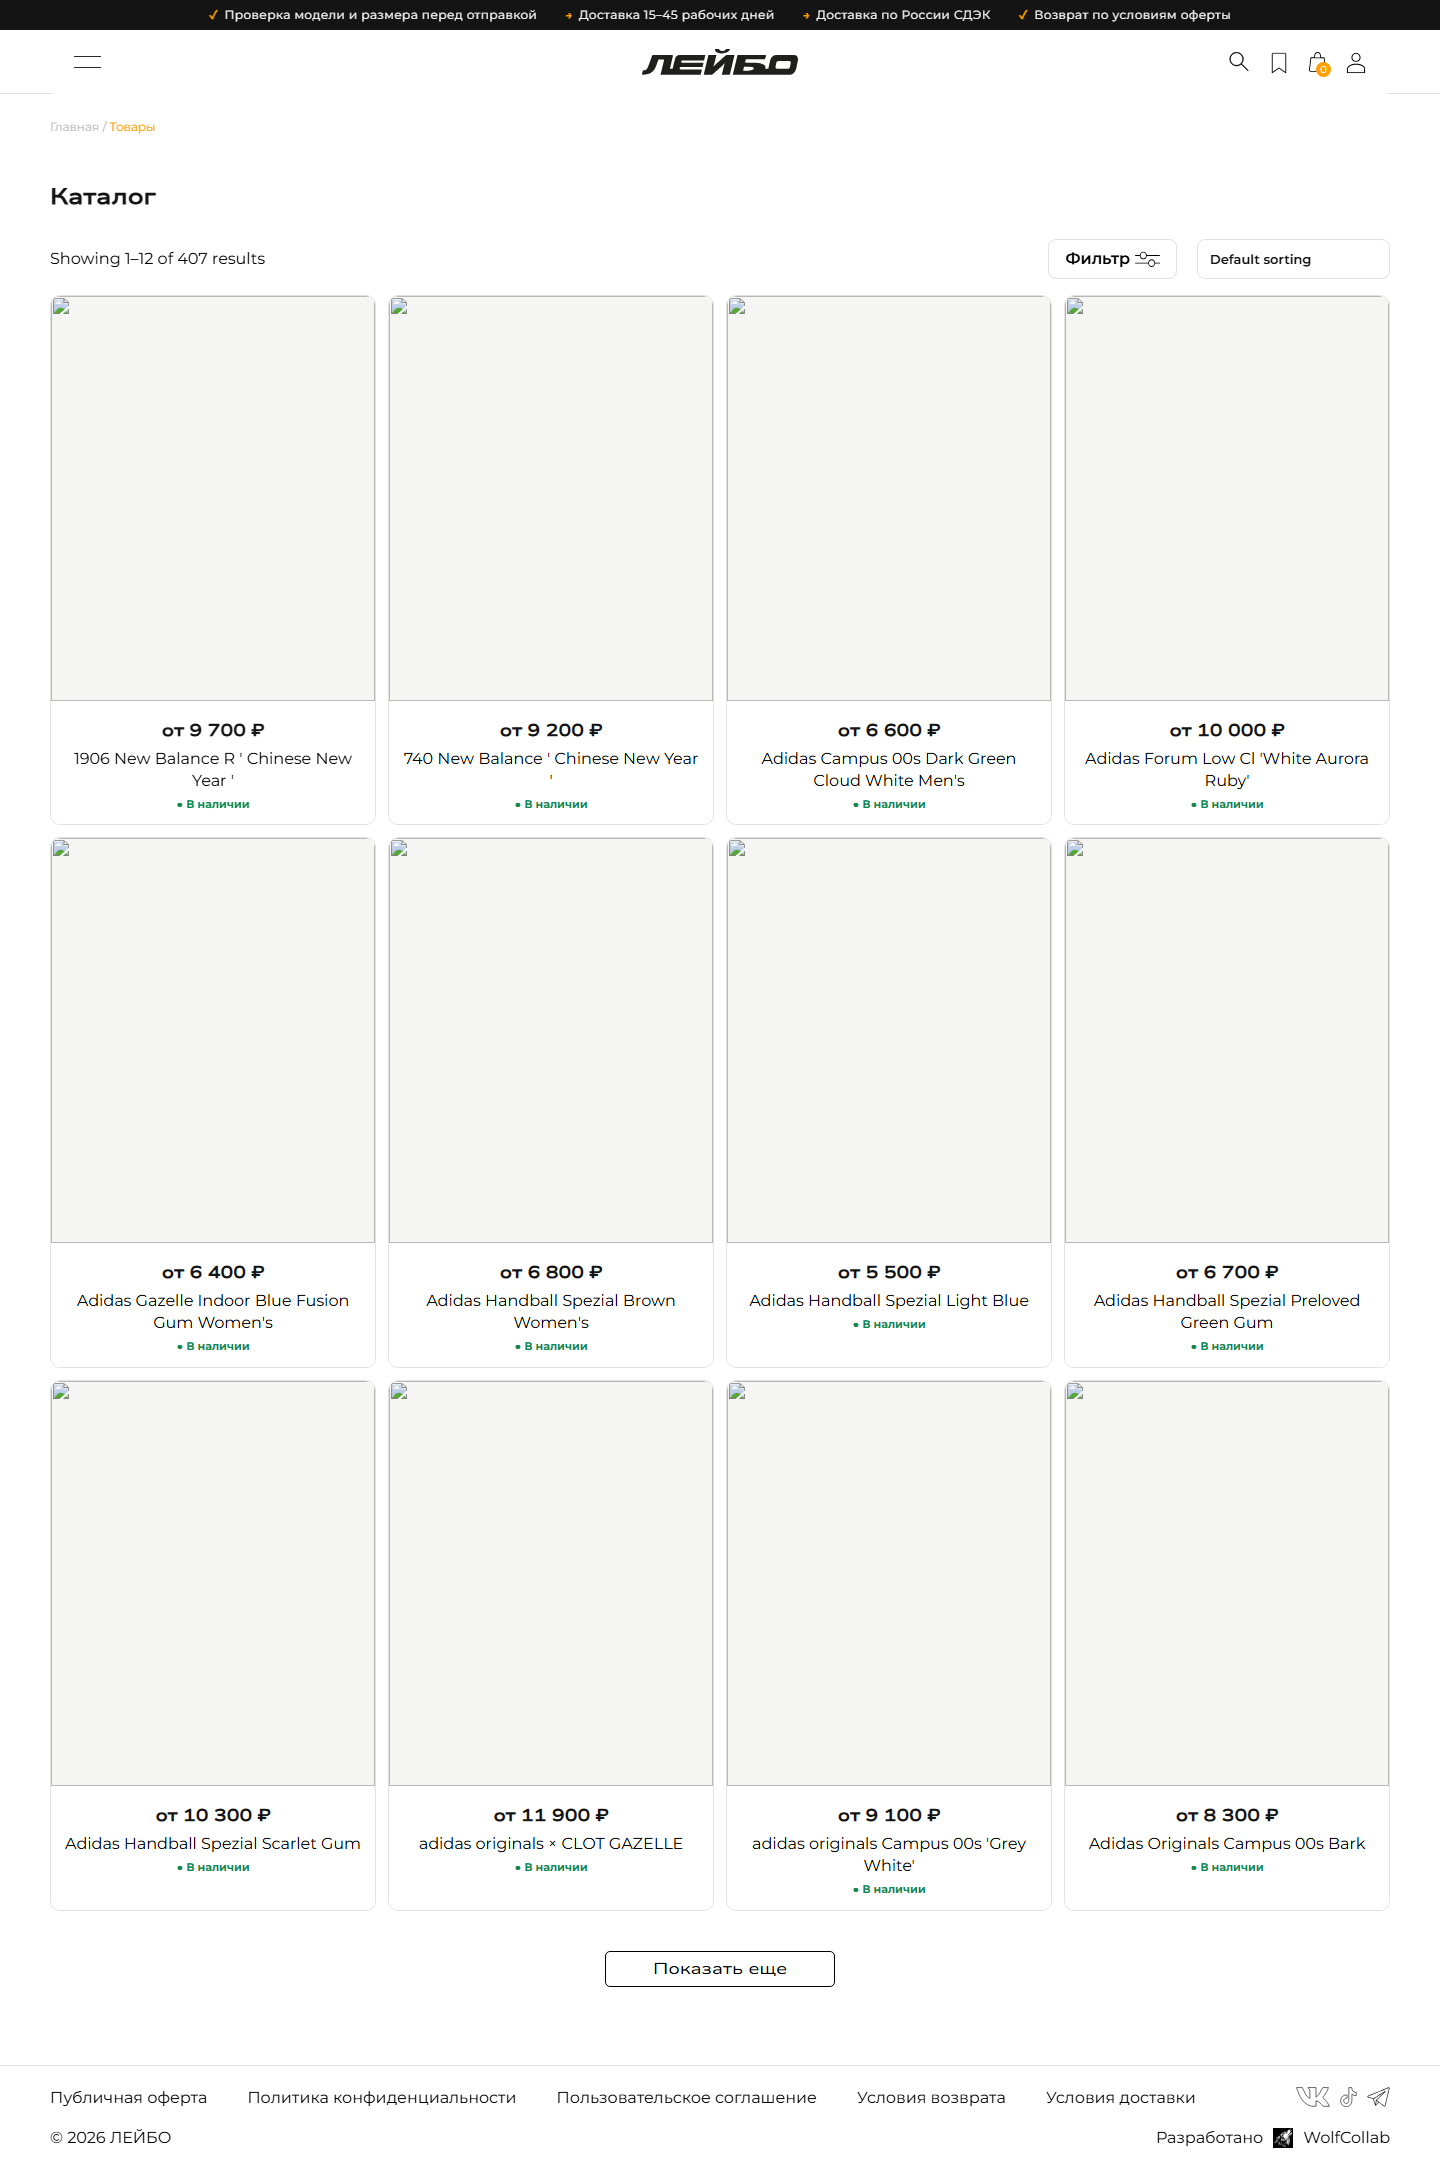
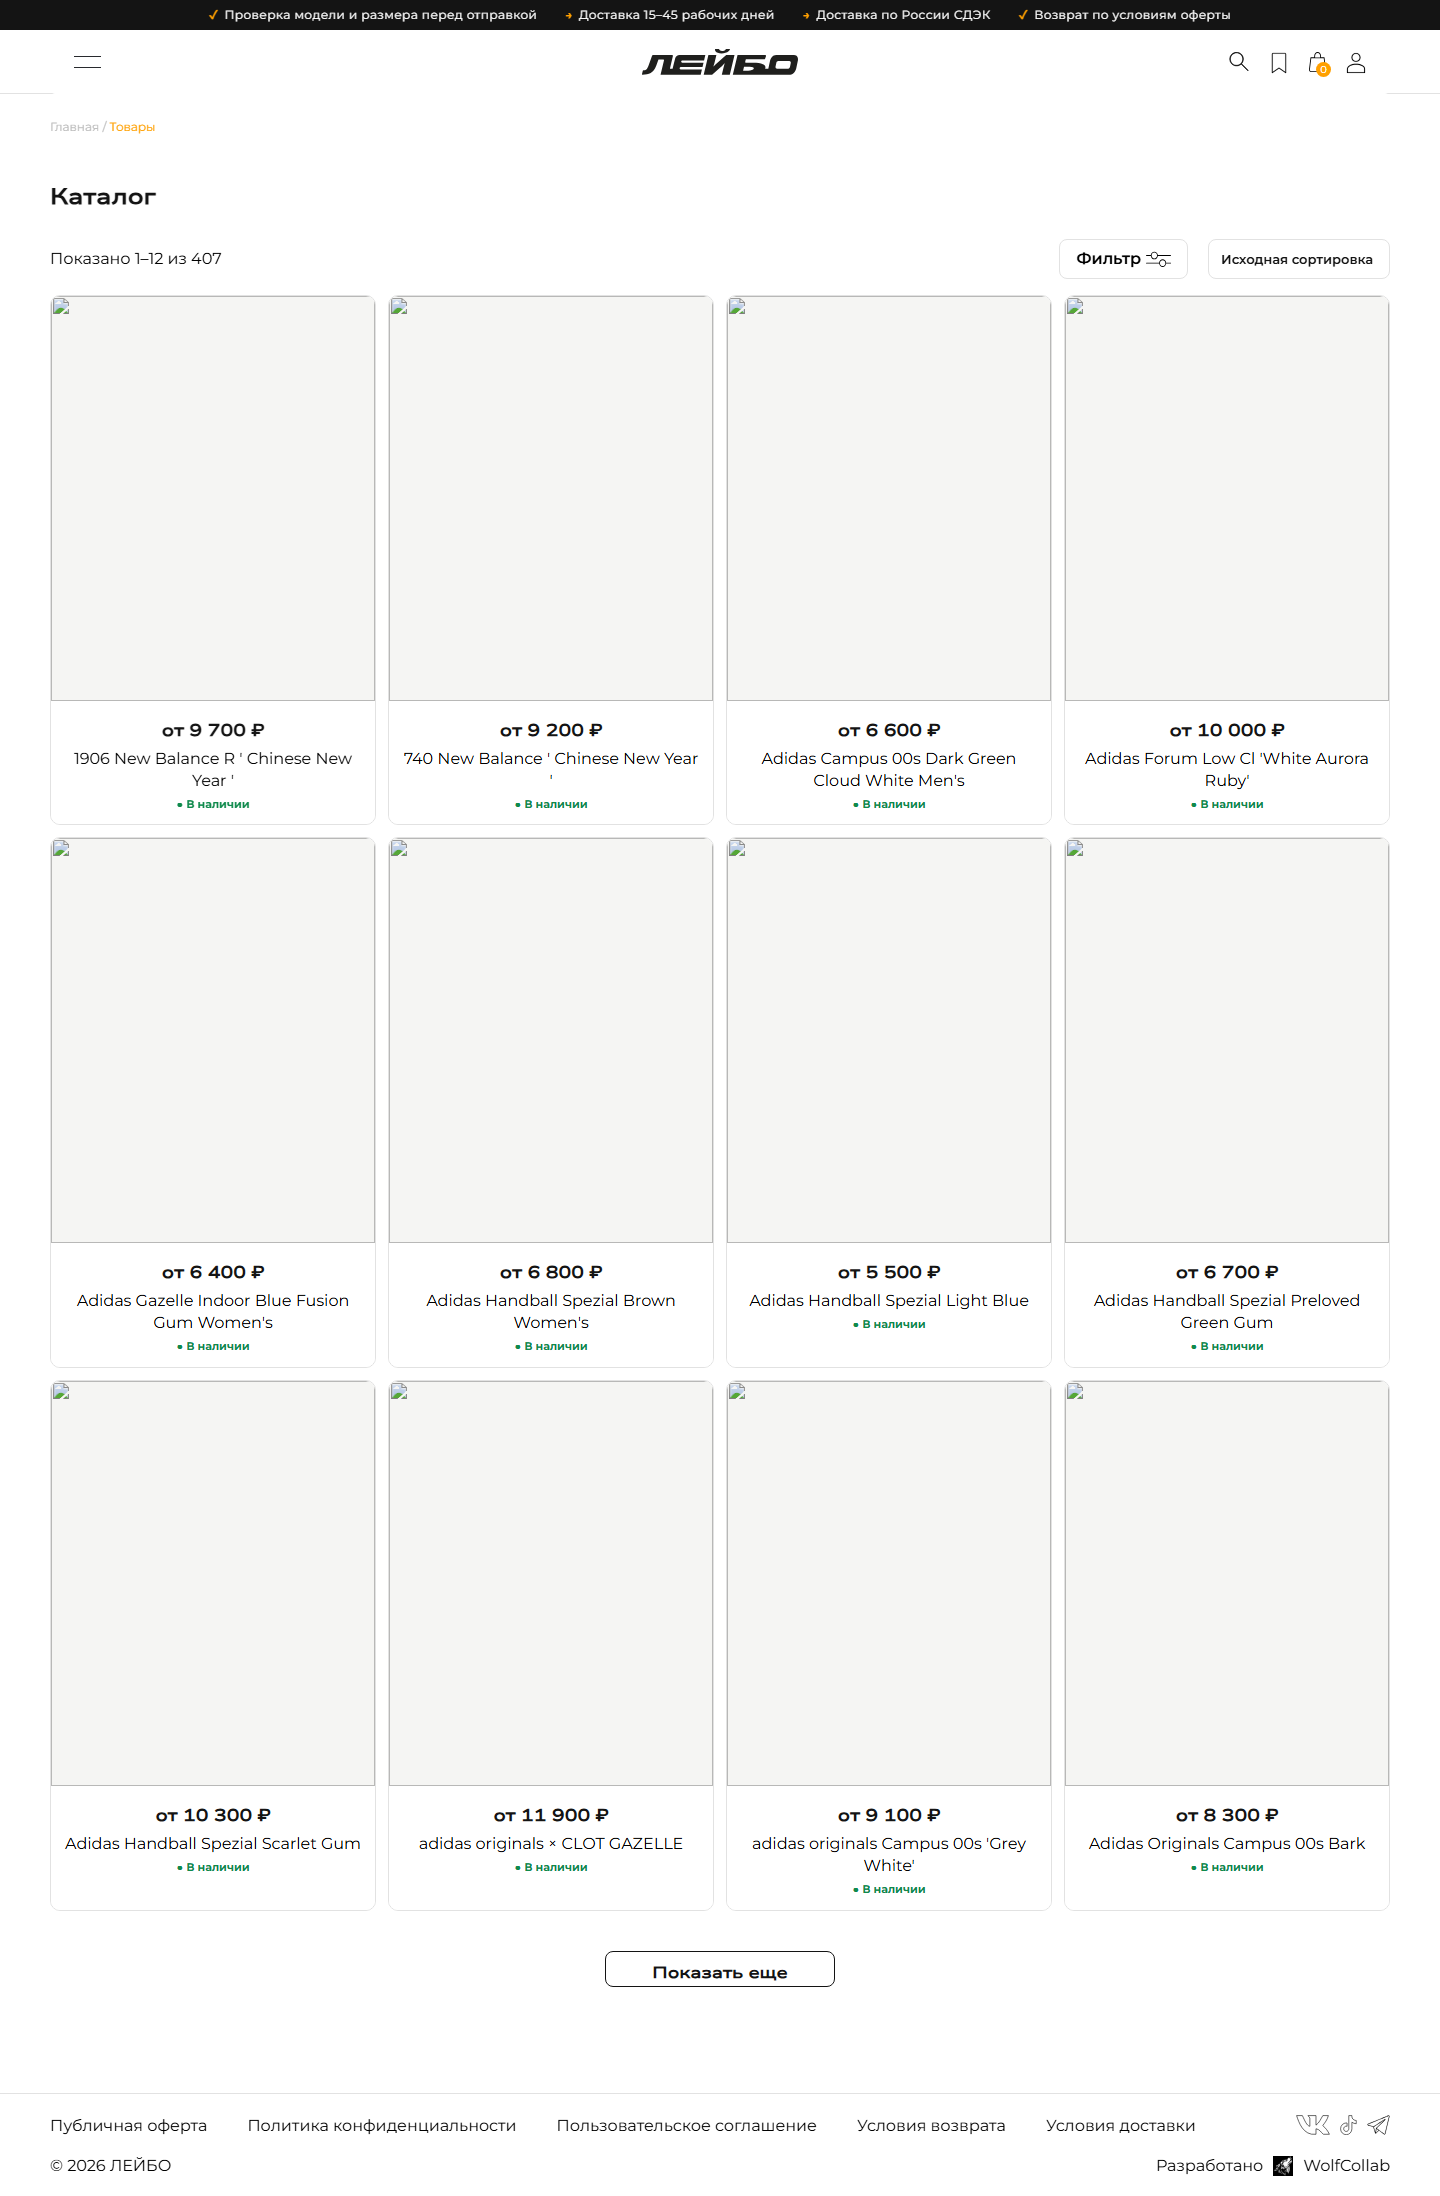
feat(stage3): russian UI strings via gettext + berocket count override, lmp button style, Kirill decisions registry

diff --git a/wordpress/site/wp-content/themes/isart-theme/assets/css/c-components.css b/wordpress/site/wp-content/themes/isart-theme/assets/css/c-components.css
@@ -57,6 +57,14 @@ a { text-decoration: none; }
   padding: 13px 26px; font-size: 15px;
 }
 .btn-more:hover, button.single_add_to_cart_button:hover, .woocommerce button.button:hover { filter: brightness(.96); }
+.lmp_load_more_button { text-align: center; margin: 28px 0; }
+.lmp_load_more_button .lmp_button {
+  display: inline-block; background: #fff !important; color: var(--c-ink) !important;
+  border: 1px solid var(--c-ink) !important; border-radius: var(--c-radius) !important;
+  font-weight: 600 !important; font-size: 14px; padding: 13px 44px !important;
+}
+.lmp_load_more_button .lmp_button:hover { background: var(--c-ink) !important; color: #fff !important; }
+.lmp_products_loading .lmp_button { opacity: .6; }
 .woocommerce-message, .woocommerce-info { border-top-color: var(--c-accent); }
 
 /* ---------- Главная C: hero-оффер, тайлы, траст ---------- */

diff --git a/wordpress/site/wp-content/themes/isart-theme/functions.php b/wordpress/site/wp-content/themes/isart-theme/functions.php
@@ -542,6 +542,32 @@ add_action('pre_get_posts', function($q){
 	$q->set('posts_per_page', 12);
 });
 
+// Русские строки WooCommerce: в локальной копии нет языковых пакетов
+// (wp-content/languages пуст, скачивание с wp.org на стенде заблокировано).
+// Правильный фикс — перенести woocommerce-ru_RU.mo с прода; до тех пор
+// ключевые строки держим русскими через gettext.
+add_filter('gettext', function ($translated, $text, $domain) {
+	if ($domain !== 'woocommerce') { return $translated; }
+	$map = array(
+		'Showing %1$d–%2$d of %3$d results' => 'Показано %1$d–%2$d из %3$d',
+		'Showing %1$d of %3$d results'      => 'Показано %1$d из %3$d',
+		'Default sorting'                   => 'Исходная сортировка',
+		'Sort by popularity'                => 'По популярности',
+		'Sort by latest'                    => 'Сначала новые',
+		'Sort by price: low to high'        => 'Цена: по возрастанию',
+		'Sort by price: high to low'        => 'Цена: по убыванию',
+		'Select options'                    => 'Выбрать размер',
+		'Add to cart'                       => 'В корзину',
+		'This product is currently out of stock and unavailable.' => 'Сейчас этой модели нет в наличии.',
+		'Out of stock'                      => 'Нет в наличии',
+		'In stock'                          => 'В наличии',
+		'Cart'                              => 'Корзина',
+		'Product category'                  => 'Категория',
+		'Products'                          => 'Товары',
+	);
+	return isset($map[$text]) ? $map[$text] : $translated;
+}, 10, 3);
+
 // Staging-safe mail defaults. Production delivery belongs in deployment config.
 add_action('phpmailer_init', function($pm){
 	$pm->Sender = 'noreply@example.invalid';

diff --git a/docs/development-log/PROJECT_STATUS.md b/docs/development-log/PROJECT_STATUS.md
@@ -342,7 +342,7 @@
 
 **СТОП-ТОЧКА ТЗ:** реализация на стенде — только после выбора направления Кириллом (A/B/C или микс). После выбора: полный комплект макетов (главная, каталог с фильтрами, карточка, поиск, корзина, профиль) со всеми состояниями в 1440/390.
 
-## 11. Этап 3: реализация направления C «Конверсия» (2026-09-06, v1 на стенде)
+## 12. Этап 3: реализация направления C «Конверсия» (2026-09-06, v1 на стенде)
 
 Кирилл утвердил направление C. Реализовано v1 на локальном стенде без правок core/сторонних плагинов:
 
@@ -355,8 +355,26 @@
 
 Ограничение данных (не дефект стиля): первые страницы каталога — товары 2026/08 без локальных фото (uploads не переносились), поэтому на скриншотах каталога заглушки. Для витрины с фото нужен свежий sync uploads с прода через Кирилла.
 
-Остаток этапа 3 (backlog): перевод непереведённых строк («Showing 1-12 of 407 results», out-of-stock текст, «Default sorting»); рестайл кнопки Load More (класс плагина); полный проход корзины/checkout/account (совместно с этапом 5); аудит неиспользуемых CSS/JS (redesign.css, старые вендоры); SEO-URL/данные/интеграции не тронуты ✅.
+Остаток этапа 3 (backlog): полный проход корзины/checkout/account (совместно с этапом 5); аудит неиспользуемых CSS/JS (redesign.css, старые вендоры). SEO-URL/данные/интеграции не тронуты ✅.
 
-## 12. Definition of Done
+Переводы (2026-09-06, выполнено частично): в локальной копии нет языковых пакетов (languages/plugins пуст), wp.org для стенда заблокирован. Ключевые строки русифицированы через gettext-фильтр в functions.php («Исходная сортировка», «В корзину», out-of-stock и др.) + JS-замена счётчика Berocket «Показано 1–12 из 407» (плагин рисует его на клиенте). Полный русский интерфейс придёт вместе с `woocommerce-ru_RU.mo` с прода — пункт #2 реестра решений Кирилла.
+
+## 13. Решения Кирилла (реестр стоп-точек)
+
+| # | Вопрос | Этап | Статус |
+|---|---|---|---|
+| 1 | Выбор визуального направления | 2 | ✅ Утверждено C «Конверсия» (2026-09-06) |
+| 2 | **Sync uploads 2026/08–09 с прода** (фото 407 свежих товаров; заодно перенести `wp-content/languages/plugins/woocommerce-ru_RU.mo` с прода) | до 4 | ⏳ Запрошено 2026-09-06; обязательное условие старта замеров этапа 4 |
+| 3 | WolfCollab-блок в футере — остаётся? | 3 | ⏳ Не решено; блок сохранён |
+| 4 | Старые «Образы» (post types women/men) и мёртвые шаблоны — удалять? | 3–4 | ⏳ Не решено; не тронуто |
+| 5 | YooKassa — тайминг подключения платежей (код ждёт регистрации компании) | 5 | ⏳ Бизнес-решение |
+| 6 | Скрытые 835 товаров апреля — по какой причине скрывались, какие показывать | 4 | ⏳ Массовое включение запрещено ТЗ |
+| 7 | Поисковая инфраструктура (Meilisearch/Typesense vs WP-индекс; требования к хостингу) | 7 | ⏳ Обоснование подготовлю, решение за Кириллом |
+| 8 | Redis/object cache + системный cron (требования к хостингу) | 4 | ⏳ После доказательства эффекта на стенде |
+| 9 | Утверждение дизайна, стенда и окна переноса | 8 (прод) | ⏳ Финальная стоп-точка |
+| 10 | Любые записи на прод / новые backup прода / продление MCP-доступа (истекает 25.09.2026) | по мере | ⏳ Только через Кирилла |
+
+## 14. Definition of Done
 
 Задача не считается выполненной по фразе «вроде работает». Для каждой функции должны быть сценарий, тест или замер. Финальный пакет должен включать URL/запуск staging, макеты и дизайн-систему, исходники без секретов, архитектурные решения, таблицу baseline → result, результаты тестов, deploy/rollback/reindex/cache-инструкции и список ограничений.
+
